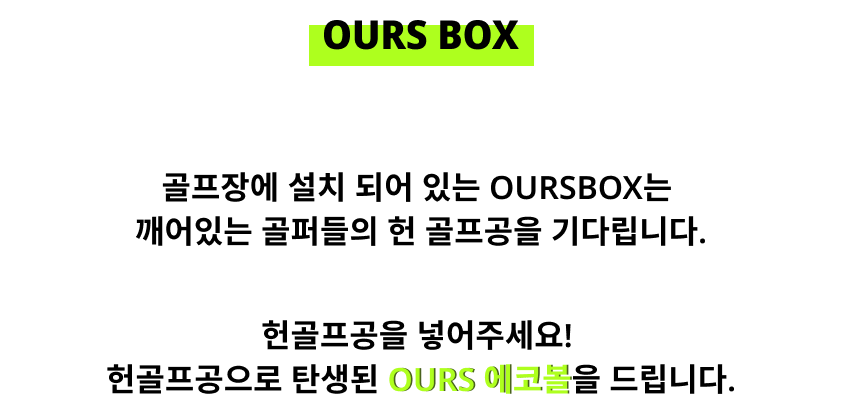
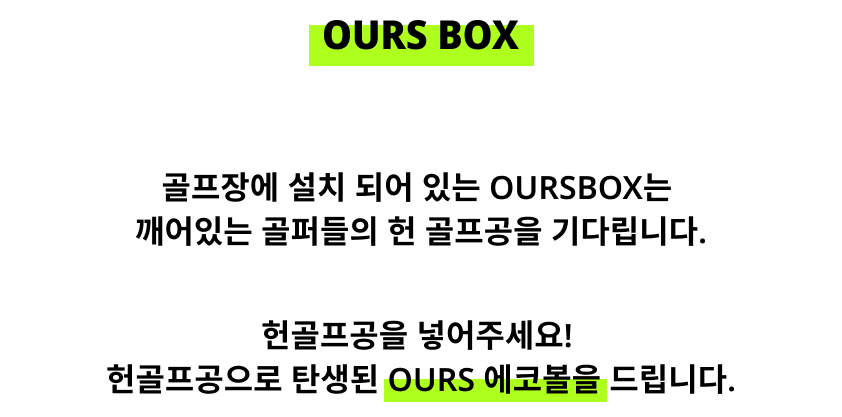
main page change text effect

Changed region(s): [[0.4323, 0.8729, 0.7411, 0.9664]]

diff --git a/src/style/factory.scss b/src/style/factory.scss
@@ -490,4 +490,75 @@
 }
 
 
-@media screen and (min-width : 1800px) {}
+@media screen and (min-width : 1800px) {
+    .factoryContainer {
+        .factoryWrap {
+            .stepOne {
+
+                .stepTitle {
+
+                    img {
+                        width: 40%;
+                    }
+                }
+
+                .stepPartOne {
+                    display: flex;
+                    justify-content: space-around;
+                    align-items: center;
+
+                    div {
+                        h3 {
+                            margin-bottom: 20px;
+                            font-size: 2.4em;
+                        }
+
+                        p {
+                            font-size: 2em;
+
+                            span {
+                                background: linear-gradient(to top, #AEFF1E 40%, transparent 40%);
+                            }
+                        }
+                    }
+
+                }
+            }
+
+            .circularEconomy {
+
+                h4 {
+                    font-size: 2em;
+                    margin-top: 50px;
+                }
+
+                p {
+                    font-size: 1.5em;
+                    margin: 50px 0px 100px 0px;
+
+                    span {
+                        background: linear-gradient(to top, #AEFF1E 40%, transparent 40%);
+                    }
+                }
+
+                .process {
+                    width: 100%;
+                }
+            }
+
+            .stepTwo {
+
+                h1 {
+                    color: #385723;
+                    margin: 50px 0px;
+                    font-size: 2em;
+                }
+
+                p {
+                    line-height: 50px;
+                    font-size: 1.3em;
+                }
+            }
+        }
+    }
+}

diff --git a/src/style/event.scss b/src/style/event.scss
@@ -10,7 +10,7 @@ body {
     z-index: 0;
 
     .banner {
-        height: 100vh;
+        height: 1200px;
         padding: 0;
         margin: 0;
         z-index: 0;
@@ -176,6 +176,7 @@ body {
             .OursEnvironment {
                 width: 100%;
                 height: 600px;
+                margin-top: 100px;
                 display: flex;
                 justify-content: center;
                 align-items: center;
@@ -192,7 +193,7 @@ body {
 
                 div {
                     text-align: left;
-                    width: 50%;
+                    width: 60%;
 
                     h1 {
                         width: 100%;
@@ -446,7 +447,7 @@ body {
                 }
 
                 .businessContact {
-                    height: 30vh;
+                    height: 500px;
                     font-size: 1.3em;
                 }
 

diff --git a/src/style/ours.scss b/src/style/ours.scss
@@ -621,19 +621,19 @@ body {
             margin: 0 auto;
 
             .technologyArea {
-
+                height: 700px;
                 img {
                     width: 30%;
                 }
 
                 .technology1 {
                     top: 10%;
-                    left: 5%;
+                    left: 15%;
                 }
 
                 .technology2 {
                     top: 5%;
-                    left: 35%;
+                    left: 40%;
                 }
 
                 .technology3 {
@@ -653,7 +653,10 @@ body {
                     }
 
                     div {
-                        bottom: 52%;
+                        left: 30%;
+                        bottom: 45%;
+                        font-size: 2em;
+                        
                     }
                 }
 
